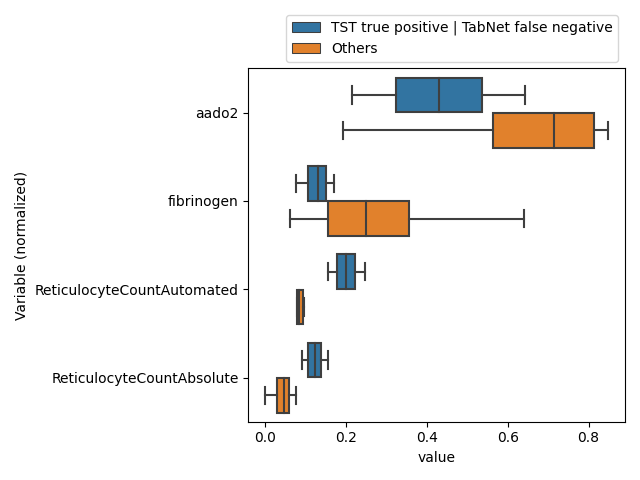
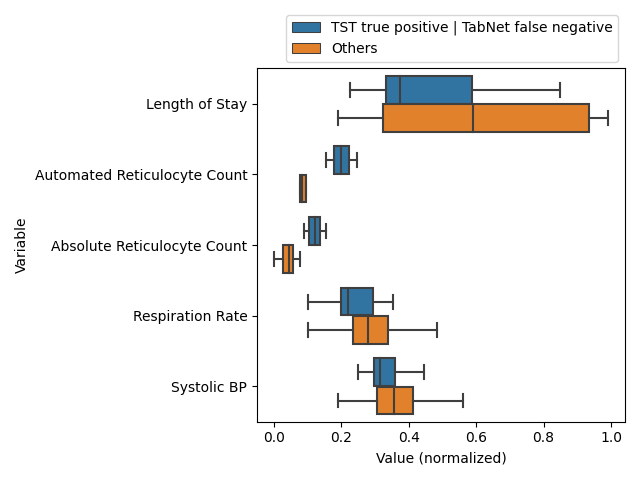
Revise stats test to use non-null value as count

diff --git a/src/tabsep/reporting/tpfnAnalysis.py b/src/tabsep/reporting/tpfnAnalysis.py
@@ -14,6 +14,22 @@ import pandas as pd
 import matplotlib.pyplot as plt
 import seaborn as sns
 
+PRETTY_NAME_MAP = {
+    "aado2": "Alveolar-arterial Oxygen Gradient",
+    "fibrinogen": "Fibrinogen",
+    "ReticulocyteCountAutomated": "Automated Reticulocyte Count",
+    "ReticulocyteCountAbsolute": "Absolute Reticulocyte Count",
+    "AbsoluteEosinophilCount": "Absolute Eosinophil Count",
+    "NucleatedRedCells": "Nucleated Red Cells",
+    "heart_rate": "Heart Rate",
+    "systolic_bp": "Systolic BP",
+    "diastolic_bp": "Diastolic BP",
+    "resp_rate": "Respiration Rate",
+    "creatinine": "Creatinine",
+    "PlateletCount": "Platelet Count",
+    "los": "Length of Stay",
+}
+
 
 def plotdiff(tst_better, other, feats):
     feature_labels = LabeledSparseTensor.load_from_pickle(
@@ -28,13 +44,16 @@ def plotdiff(tst_better, other, feats):
 
     df = pd.concat([df_a, df_b])
     df = df[feats + ["Legend"]]
-    df.drop(columns=["AbsoluteEosinophilCount", "NucleatedRedCells"], inplace=True)
-    plottable = df.melt(id_vars="Legend", var_name="Variable (normalized)")
+    # df.drop(columns=["AbsoluteEosinophilCount", "NucleatedRedCells"], inplace=True)
+    df.rename(columns=PRETTY_NAME_MAP, inplace=True)
+    plottable = df.melt(
+        id_vars="Legend", var_name="Variable", value_name="Value (normalized)"
+    )
 
     ax = sns.boxplot(
         data=plottable,
-        y="Variable (normalized)",
-        x="value",
+        y="Variable",
+        x="Value (normalized)",
         hue="Legend",
         orient="h",
         showfliers=False,
@@ -49,17 +68,19 @@ def plotdiff(tst_better, other, feats):
 def compare(a, b):
     m_a = np.nanmean(a, axis=0)
     std_a = np.nanstd(a, axis=0)
+    count_a = np.count_nonzero(~np.isnan(a), axis=0)
 
     m_b = np.nanmean(b, axis=0)
     std_b = np.nanstd(b, axis=0)
+    count_b = np.count_nonzero(~np.isnan(b), axis=0)
 
     stat, p = ttest_ind_from_stats(
         m_a,
         std_a,
-        a.shape[0],
+        count_a,
         m_b,
         std_b,
-        b.shape[0],
+        count_b,
     )
 
     feature_labels = LabeledSparseTensor.load_from_pickle(
@@ -72,10 +93,17 @@ def compare(a, b):
             "mean_tst_better": m_a,
             "mean_other": m_b,
             "p": p,
+            "count_a": count_a,
+            "count_b": count_b,
         }
     )
 
-    sig_df["p_adj"] = sig_df["p"] * len(sig_df)
+    # Drop all features with 1 obs or less as p-vals will be invalid
+    sig_df = sig_df[(sig_df["count_a"] > 1) & (sig_df["count_b"] > 1)]
+    sig_df.drop(columns=["count_a", "count_b"], inplace=True)
+    sig_df["ratio"] = sig_df["mean_tst_better"] / sig_df["mean_other"]
+
+    sig_df = sig_df[sig_df["p"] < 0.05]
 
     return sig_df
 
@@ -130,12 +158,15 @@ if __name__ == "__main__":
     ].numpy()
 
     feature_comparison = compare(X_tst_better, X_other)
-    print(feature_comparison.nsmallest(20, columns="p_adj"))
+    print(feature_comparison.nsmallest(20, columns="p"))
+    feature_comparison["difference"] = (
+        feature_comparison["mean_tst_better"] - feature_comparison["mean_other"]
+    ).abs()
 
     plotdiff(
         X_tst_better,
         X_other,
-        feature_comparison[feature_comparison["p_adj"] < 0.05].feature.to_list(),
+        feature_comparison.nlargest(n=5, columns="difference").feature.to_list(),
     )
 
     # What features were most important in this subgroup?
